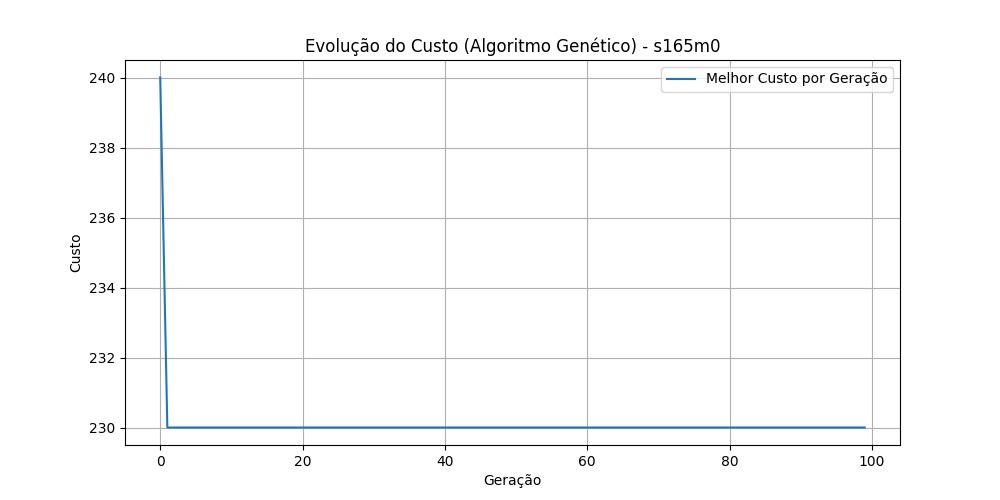
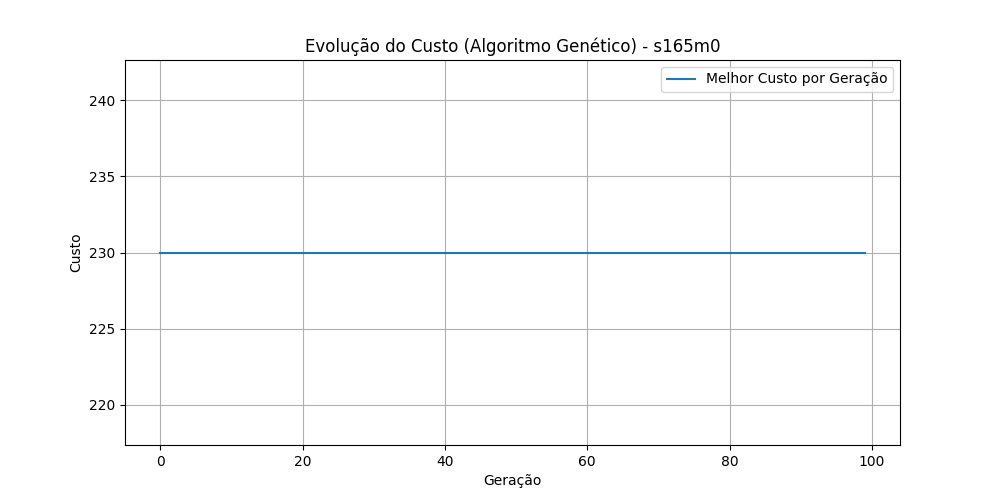
changed weight in calculateCost for wards and surgeries

diff --git a/utils.py b/utils.py
@@ -5,6 +5,12 @@ import math
 def generate_initial_solution(instance_data):
     """
     Gera uma solução inicial aleatória para todos os pacientes.
+    
+    Essa função gera uma solução inicial aleatória. Para cada paciente, 
+    ela escolhe um ward (enfermaria) de forma aleatória e seleciona um 
+    dia de admissão dentro do intervalo permitido (entre earliest_admission e latest_admission). 
+    Essa abordagem garante diversidade na população inicial, o que é fundamental
+    para métodos baseados em busca heurística.
     """
     solution = {}
     wards = list(instance_data['wards'].keys())
@@ -20,6 +26,18 @@ def generate_initial_solution(instance_data):
 def calculate_cost(instance_data, solution):
     """
     Calcula o custo de uma solução, penalizando sobrecarga dos wards e conflitos de agendamento.
+    
+    Sobre carga dos wards: para cada ward, se o número de pacientes
+    atribuídos exceder a capacidade (bed_capacity), o custo aumenta 
+    proporcionalmente à quantidade excedente (multiplicado por 10).
+    
+    
+    Conflitos no agendamento de cirurgias: a função conta quantos pacientes são agendados 
+    para cada dia e, se esse número ultrapassar a quantidade de especializações 
+    disponíveis (len(instance_data['specializations'])), aplica uma penalidade 
+    (multiplicado por 5).
+    Essa função reflete de forma razoável os objetivos de minimizar 
+    sobrecargas e conflitos.
     """
     cost = 0
     # Penaliza sobrecarga nos wards
@@ -29,7 +47,8 @@ def calculate_cost(instance_data, solution):
 
     for ward, load in ward_loads.items():
         if load > instance_data['wards'][ward]['bed_capacity']:
-            cost += (load - instance_data['wards'][ward]['bed_capacity']) * 10
+            # posso alterar isto se quiser que um seja mais grave que o outro (multiplicar por um valor)
+            cost += (load - instance_data['wards'][ward]['bed_capacity'])
 
     # Penaliza conflitos no agendamento de cirurgias
     scheduled_surgeries = {}
@@ -39,9 +58,12 @@ def calculate_cost(instance_data, solution):
 
     for day, count in scheduled_surgeries.items():
         if count > len(instance_data['specializations']):
-            cost += (count - len(instance_data['specializations'])) * 5
+            
+            # posso alterar isto se quiser que um seja mais grave que o outro (multiplicar por um valor)
+            cost += (count - len(instance_data['specializations']))
 
     return cost
+
 
 def make_neighbor_solution(instance_data, current_solution):
     """

diff --git a/main.py b/main.py
@@ -94,7 +94,7 @@ def main():
             plt.grid()
             cost_plot_path = os.path.join(instance_image_dir, "cost_evolution.png")
             plt.savefig(cost_plot_path)
-            plt.close()
+            plt.close() 
 
             # Plot da evolução da temperatura (para SA)
             if optimization_method == "sa":
